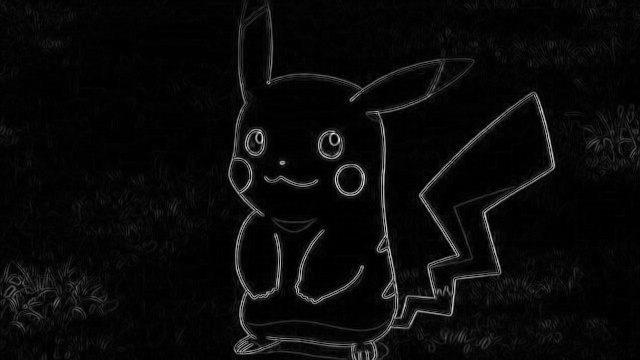
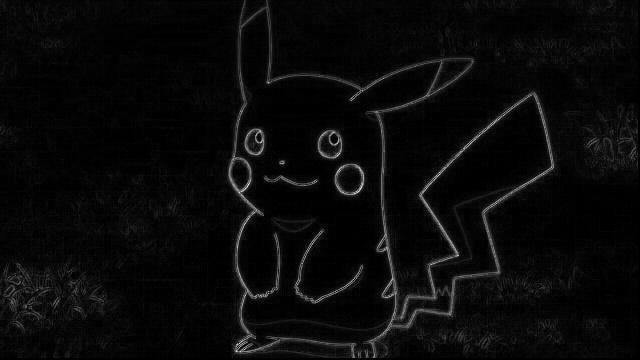
separate support functions

diff --git a/Energy.py b/Energy.py
@@ -8,8 +8,8 @@ from collections import defaultdict
 
 from CIELAB_color_space import RGBtoLAB
 
-color_div = 128
-img_name = 'human2.jpg'
+color_div = 86
+img_name = 'pika4.jpg'
 
 def rgbSobelEnergy(inputImage, colorType):
     img = np.array(inputImage)
@@ -78,61 +78,6 @@ def labSobelEnergy(inputImage):
     result *= 255.0 / np.max(result)
 
     return result
-
-def plotProcess(imx, imy, energy):
-    
-    plt.title("imx")
-    plt.imshow(imx, cmap="gray")
-
-    # plt.subplot(222)
-    # plt.title("imy")
-    # plt.imshow(imy, cmap="gray")
-
-    # plt.subplot(223)
-    # plt.title("energy")
-    # plt.imshow(energy, cmap="gray")
-    # plt.show()
-
-    return
-
-def RGBHistogram(img):
-    """
-    Plot histogram of RGB values.
-    """
-    plt.figure('RGB Histogram')
-    color = ('b','g','r')
-    for i, col in enumerate(color):
-        histr = cv2.calcHist([img],[i],None,[256],[0, 256])
-        plt.plot(histr, color = col)
-        plt.xlim([0, 256])
-    plt.show()
-        
-    return
-
-def plotRGBSpace(img):
-    """
-    Plot 3d RGB color space.
-    """
-    
-    ax = plt.axes(projection="3d")
-    
-    R_points = [ img[i][j][2] for i in range(img.shape[0]) for j in range(img.shape[1]) ]
-    G_points = [ img[i][j][1] for i in range(img.shape[0]) for j in range(img.shape[1]) ]
-    B_points = [ img[i][j][0] for i in range(img.shape[0]) for j in range(img.shape[1]) ]
-    
-    ax.scatter3D(R_points, G_points, B_points, color='r')
-    ax.scatter3D(255, 255, 255, c='white')
-    ax.scatter3D(0, 0, 0, c='black')
-    ax.scatter3D(255, 255, 0, c='yellow')
-    ax.scatter3D(0, 0, 255, c='blue')
-    ax.scatter3D(255, 0, 0, c='red')
-    
-    ax.set_xlabel('X')
-    ax.set_ylabel('Y')
-    ax.set_zlabel('Z')
-    plt.show()
-    
-    return
 
 def RGBcolorClassify(img, div):
     """
@@ -261,7 +206,7 @@ def LABcolorEnergy(img, div):
     Color classes with highest frequency indicates lowest energy, vice versa.
     """
     LABimg = RGBtoLAB(img)
-    _, color_importance = LABcolorClassify(LABimg)
+    _, color_importance = LABcolorClassify(LABimg, div)
     
     img_new = np.zeros((img.shape[0], img.shape[1]))
     for i in range(img.shape[0]):
@@ -337,22 +282,13 @@ if __name__ == "__main__":
     
     #==============euclidean distance=========
 
-    # plt.figure()
-    # plt.title("LAB color (euclidean)")
-    # LABeuclidean_Eng = euclideanEnergy(img)
-    # plt.imshow(LABeuclidean_Eng, cmap="gray")
-    # plt.show()
-
-    # plt.figure()
-    # plt.title("LAB sobel + LAB color (euclidean)")
-    # LABcombine_Eng = combineEnergy(LABsobel_Eng, LABeuclidean_Eng)
-    # plt.imshow(LABcombine_Eng, cmap="gray")
-    # plt.show()
+    plt.figure()
+    plt.title("RGB sobel + LAB color")
+    RGBsobel_Eng = rgbSobelEnergy(img, 'RGB')
+    LABcolor_Eng = LABcolorEnergy(img, color_div)
+    combine_Eng = combineEnergy(RGBsobel_Eng, LABcolor_Eng)
+    plt.imshow(combine_Eng, cmap="gray")
+    cv2.imwrite(resultDir+'combine_Eng_'+str(color_div)+'.jpg', combine_Eng)
+    plt.show()
     
-    # plt.figure()
-    # plt.title("RGB sobel + LAB color (euclidean)")
-    # sobel_Eng = SobelEnergy(img, 'RGB')
-    # LABeuclidean_Eng = euclideanEnergy(img)
-    # LABcombine_Eng = combineEnergy(sobel_Eng, LABeuclidean_Eng)
-    # plt.imshow(LABcombine_Eng, cmap="gray")
-    # plt.show()
+    

diff --git a/main.py b/main.py
@@ -22,8 +22,8 @@ from Energy import RGBcolorEnergy
 from Energy import LABcolorEnergy
 from Energy import combineEnergy
 
-color_div = 128
-img_name = 'human2.jpg'
+color_div = 52
+img_name = 'pika4.jpg'
 
 def minimum_seam(img, map_type):
     r, c, _ = img.shape
@@ -31,15 +31,17 @@ def minimum_seam(img, map_type):
     if map_type=='RGBsobel':
         energy_map = rgbSobelEnergy(img, 'RGB')
     elif map_type=='RGBcolor':
-        energy_map = RGBcolorEnergy(img,color_div)
+        energy_map = RGBcolorEnergy(img, color_div)
     elif map_type=='RGBcombine':
         energy_map = combineEnergy(rgbSobelEnergy(img, 'RGB'), RGBcolorEnergy(img,color_div))
     elif map_type=='LABsobel':
         energy_map = labSobelEnergy(img)
     elif map_type=='LABcolor':
-        energy_map = LABcolorEnergy(img)
+        energy_map = LABcolorEnergy(img, color_div)
     elif map_type=='LABcombine':
         energy_map = combineEnergy(labSobelEnergy(img), LABcolorEnergy(img))
+    elif map_type=='RGBsobelLABcolorcombine':
+        energy_map = combineEnergy(rgbSobelEnergy(img, 'RGB'), LABcolorEnergy(img,color_div))
 
     # Show carving process
     # plt.imshow(energy_map, cmap="gray")
@@ -175,3 +177,12 @@ if __name__=='__main__':
     cv2.imwrite(fileName, labcombine)
     
     plt.show()
+    
+    # testing =========================================
+    
+    # RGB sobel + LAB color
+    print("\nDoing RGB sobel + LAB color combine Energy...")
+    combine = crop_c(img, 0.8, 'RGBsobelLABcolorcombine')
+    plt.imshow(cv2.cvtColor(combine, cv2.COLOR_BGR2RGB))
+    fileName = resultDir + 'combine_' + str(color_div) + '.jpg'
+    cv2.imwrite(fileName, combine)

diff --git a/support_func.py b/support_func.py
@@ -1,0 +1,63 @@
+#!/usr/bin/env python3
+# -*- coding: utf-8 -*-
+"""
+Support functions
+"""
+
+from matplotlib import pyplot as plt
+import cv2
+
+def RGBHistogram(img):
+    """
+    Plot histogram of RGB values.
+    """
+    plt.figure('RGB Histogram')
+    color = ('b','g','r')
+    for i, col in enumerate(color):
+        histr = cv2.calcHist([img],[i],None,[256],[0, 256])
+        plt.plot(histr, color = col)
+        plt.xlim([0, 256])
+    plt.show()
+        
+    return
+
+def plotRGBSpace(img):
+    """
+    Plot 3d RGB color space.
+    """
+    
+    ax = plt.axes(projection="3d")
+    
+    R_points = [ img[i][j][2] for i in range(img.shape[0]) for j in range(img.shape[1]) ]
+    G_points = [ img[i][j][1] for i in range(img.shape[0]) for j in range(img.shape[1]) ]
+    B_points = [ img[i][j][0] for i in range(img.shape[0]) for j in range(img.shape[1]) ]
+    
+    ax.scatter3D(R_points, G_points, B_points, color='r')
+    ax.scatter3D(255, 255, 255, c='white')
+    ax.scatter3D(0, 0, 0, c='black')
+    ax.scatter3D(255, 255, 0, c='yellow')
+    ax.scatter3D(0, 0, 255, c='blue')
+    ax.scatter3D(255, 0, 0, c='red')
+    
+    ax.set_xlabel('X')
+    ax.set_ylabel('Y')
+    ax.set_zlabel('Z')
+    plt.show()
+    
+    return
+
+def plotProcess(imx, imy, energy):
+    
+    plt.title("imx")
+    plt.imshow(imx, cmap="gray")
+
+    # plt.subplot(222)
+    # plt.title("imy")
+    # plt.imshow(imy, cmap="gray")
+
+    # plt.subplot(223)
+    # plt.title("energy")
+    # plt.imshow(energy, cmap="gray")
+    # plt.show()
+
+    return
